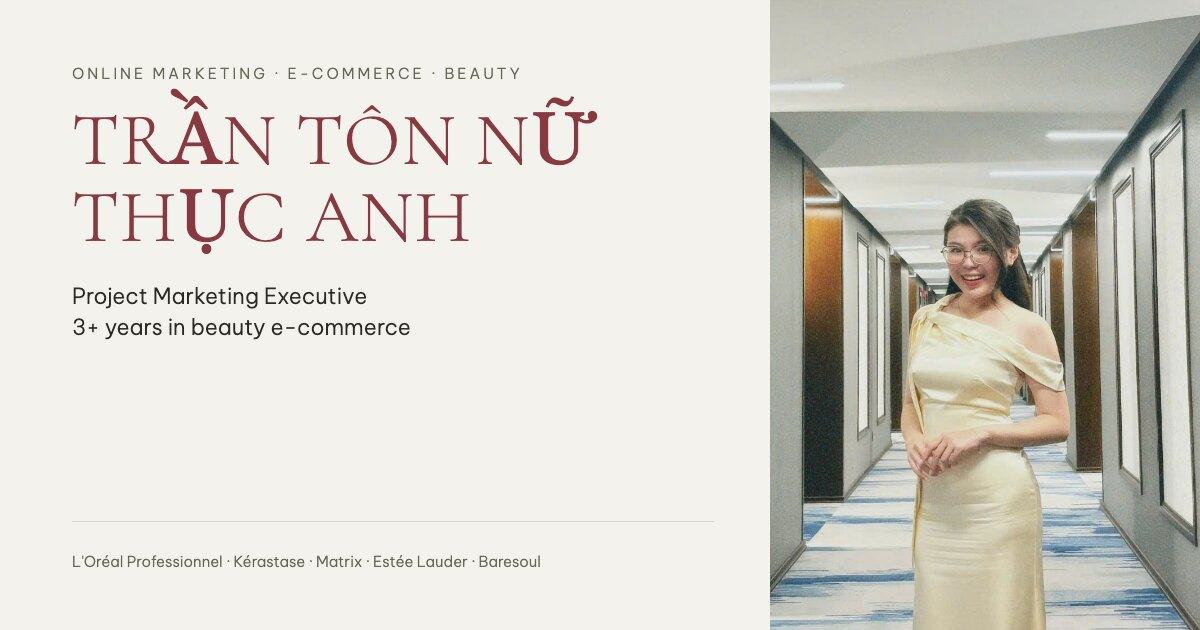
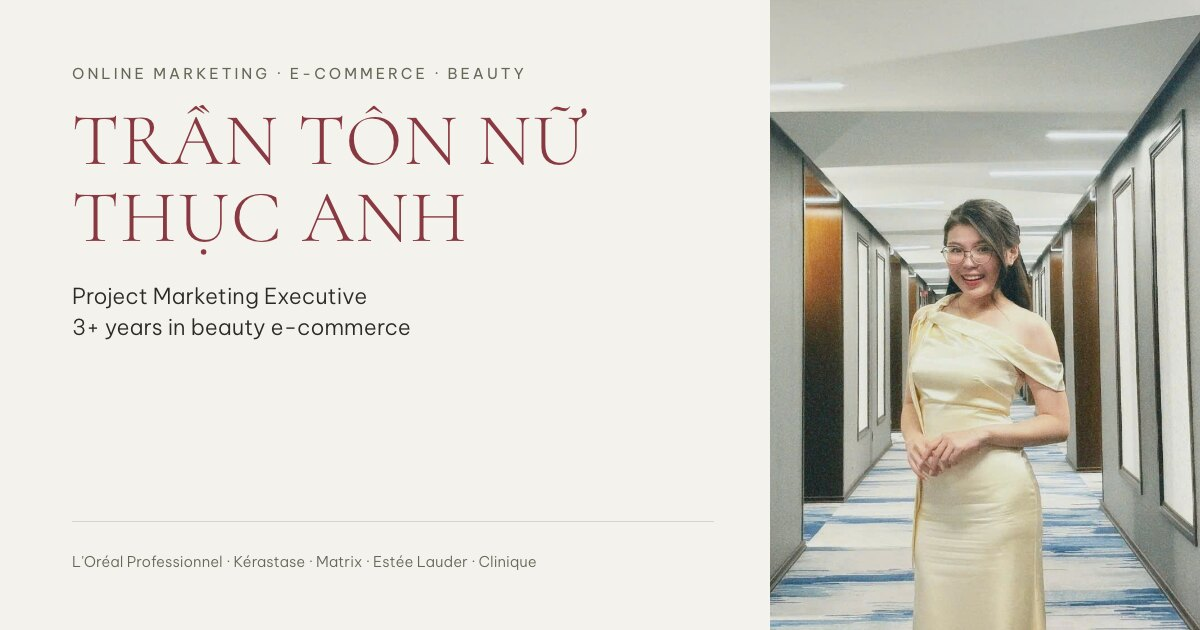
fix: the social card had her name half-set in a system serif — root cause and three guards
The site's hero was fixed days ago; the link preview was not, and the link preview is the most
seen image this site has.

ROOT CAUSE, in four parts — the raster was only the visible one.

1. `images/portrait-og.jpg` is a RENDERING of her name in the site's own fonts.
2. It was produced by hand, once, from a throwaway HTML file in /tmp, while the font subset was
   still missing the uppercase Vietnamese glyphs that CSS text-transform generates — Ầ U+1EA6,
   Ữ U+1EEE, Ụ U+1EE4, Ô U+00D4. Those four letters came from a system serif, visibly heavier
   than the Cormorant around them. Compare Ụ against the T and H beside it in the old file.
3. There was NO GENERATOR, so fixing the fonts could not regenerate the card. A raster is frozen
   at the moment it is taken.
4. Nothing checked that the card still matched the site, so it stayed wrong silently.

Regenerating alone would have fixed 2 and left 1, 3 and 4 in place, which is how it would come
back the next time a font or a word changes.

THE FIX. tools/build/make-og-card.mjs now owns the card. It reads the name, role, niche and
brands from config.json rather than restating them, draws with the shipped font files, and:

- ASSERTS via CDP getPlatformFontsForNode that every glyph came from the intended family, and
  refuses to write the file otherwise. Tested: a codepoint outside the subset yields
  `#nm: 1 glyph(s) rendered in "蘋方-簡"`, exit 1, image untouched.
[…]

diff --git a/AGENTS.md b/AGENTS.md
@@ -62,6 +62,29 @@ single source and the previous port's docs drifted out of sync precisely because
   Derives its base URL from its own `<script src>` so one file serves both documents.
 - `config.json` — `{ meta, vi, en }`. VI and EN are structurally identical; keep them that way.
 
+### Regenerating the social card
+
+`images/portrait-og.jpg` is the 1200×630 image every link preview shows. It is a RASTER of her
+name set in the site's own fonts, so it cannot tell you when it has gone stale — and it did:
+it was rendered by hand while the subsetted fonts were still missing the uppercase Vietnamese
+glyphs, so `Ầ Ữ Ụ Ô` fell back to a system serif and her name shipped half in the wrong face.
+
+```bash
+node tools/build/make-og-card.mjs            # regenerate
+node tools/build/make-og-card.mjs --check    # re-render and compare, exits 1 if stale
+```
+
+Three guards, because one was not enough:
+- The generator **asserts via CDP** that every glyph came from the intended family, and refuses to
+  write the file otherwise. Verified to bite: a codepoint outside the subset produces
+  `1 glyph(s) rendered in "蘋方-簡"` and exit 1 with the image untouched.
+- It writes `images/portrait-og.inputs`, a fingerprint of the name, role, niche, brands and the
+  exact font filenames it drew with.
+- **`release.mjs --check` compares that fingerprint** and fails if anything it depends on changed.
+  Cheap — no browser. Verified to bite on a renamed brand.
+
+Re-run it after any change to her name, role, niche, the first five brands, or the fonts.
+
 ### Regenerating config.json
 
 `config.json` is **generated**, not hand-edited at first creation:

diff --git a/docs/design/v3-source/DEVIATIONS.md b/docs/design/v3-source/DEVIATIONS.md
@@ -301,3 +301,18 @@ at y=691 and two tiles reach the first screen, with the proof strip still above 
 Rejected: collapse-by-default with expand-on-hover. Hover does not exist on touch and fails
 differently on iOS and Android; the tile's note is already the excerpt such a panel would show,
 and it is permanent, copyable and printable instead of transient.
+
+## D19 — the social card is generated, asserted and fingerprinted
+
+`og:image` is a 1200×630 card rather than a crop of the portrait: a 3:4 full-body shot declared
+as landscape drops LinkedIn out of its large-card layout, and the face is a few dozen pixels wide
+at that size.
+
+It shipped broken once. The card was rendered by hand from a throwaway file while the font subset
+was still missing the uppercase Vietnamese glyphs that `text-transform` generates, so `Ầ Ữ Ụ Ô`
+came from a system serif at a visibly heavier weight. Fixing the fonts could not fix the card,
+because a raster is frozen at the moment it is taken and nothing regenerated it.
+
+`tools/build/make-og-card.mjs` now owns it: it reads the strings from `config.json`, draws with
+the shipped font files, asserts through CDP that no glyph fell back, and records a fingerprint of
+its inputs that `release.mjs --check` verifies. All three guards are tested to fail.
